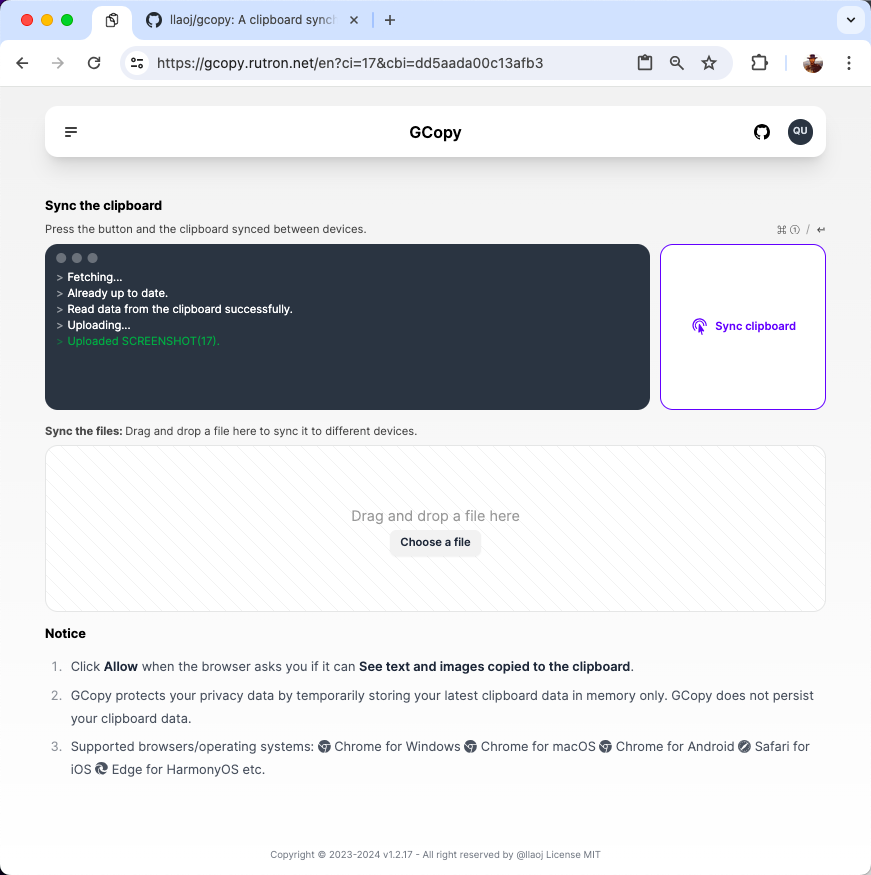
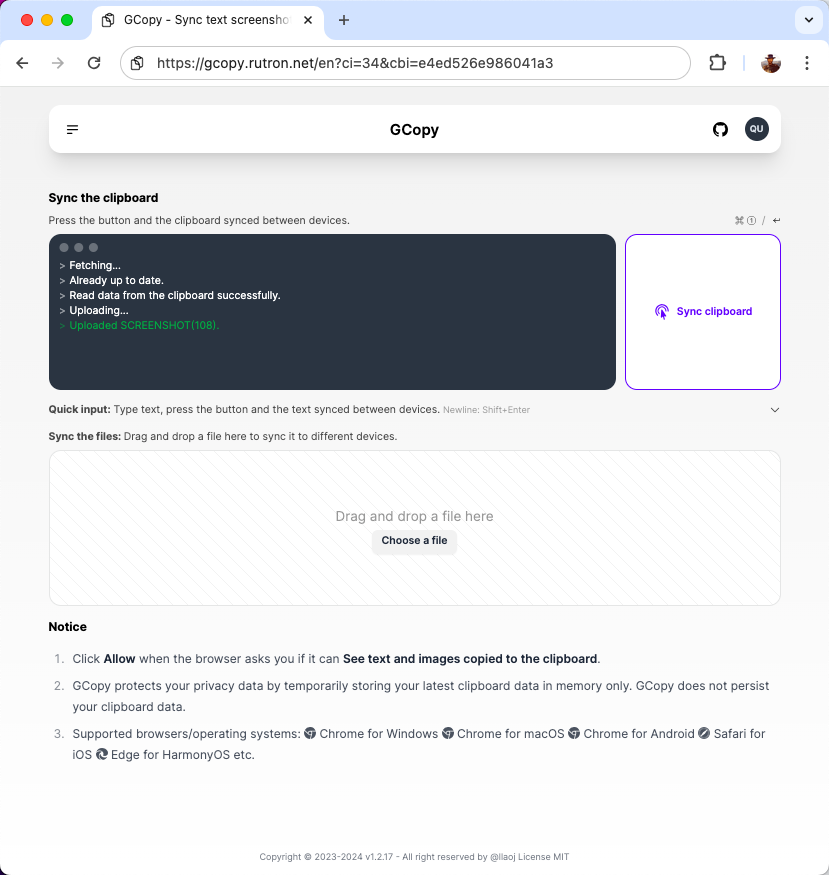
Squashed commit of the following:
commit 5776a61d2314ce1c76050a8c00c71330fb9a2ca6
Author: 老J <hmmmbiubiubiu@gmail.com>
Date:   Fri May 31 13:43:31 2024 +0800

    v1.3.0: Add quick input textarea.

commit fc9be20dfde297fa3ad2a671d215ba91d8856668
Author: 老J <hmmmbiubiubiu@gmail.com>
Date:   Fri May 31 13:39:49 2024 +0800

    Add quick input textarea.

commit af100c330b5a6d2a24dcd5fcda4adfee58acf52c
Author: 老J <hmmmbiubiubiu@gmail.com>
Date:   Fri May 31 08:18:02 2024 +0800

    Add quick input textarea.

commit dffeadf13a3f12bb713f2ced639666ba2ee29c6d
Author: 老J <hmmmbiubiubiu@gmail.com>
Date:   Thu May 30 08:24:47 2024 +0800

    Add quick input textarea.

commit 14829c9f4d8b8dec7137ec92cb872950834e5eeb
Author: 老J <hmmmbiubiubiu@gmail.com>
Date:   Wed May 29 13:38:31 2024 +0800

    Add quick input textarea.

commit d4602f738db9168616b47e0571bef2e69072e8fc
Author: 老J <hmmmbiubiubiu@gmail.com>
Date:   Tue May 28 20:10:33 2024 +0800

    Add quick input area.

diff --git a/frontend/components/sync-clipboard.tsx b/frontend/components/sync-clipboard.tsx
@@ -23,6 +23,7 @@ import {
 import { osName, browserName, isAndroid } from "react-device-detect";
 import SyncButton from "@/components/sync-button";
 import SyncShortcut from "@/components/sync-shortcut";
+import QuickInput from "@/components/quick-input";
 
 // route: /locale?ci=123&cbi=abc
 // - ci: clipboard index
@@ -37,7 +38,8 @@ export default function SyncClipboard() {
   const [status, setStatus] = useState<string>("");
   const [dragging, setDragging] = useState(false);
 
-  const inputRef = useRef<HTMLInputElement>(null);
+  const fileInputRef = useRef<HTMLInputElement>(null);
+  const textareaRef = useRef<HTMLTextAreaElement>(null);
   const locale = useLocale();
   const { isLoading, loggedIn } = useAuth();
   const router = useRouter();
@@ -232,10 +234,20 @@ export default function SyncClipboard() {
   };
 
   const pushClipboard = async () => {
-    if (!navigator.clipboard || !navigator.clipboard.read) {
-      return;
+    let blob = null;
+    if (textareaRef.current && textareaRef.current.value != "") {
+      blob = new Blob([textareaRef.current.value], { type: "text/plain" });
+      addLog(t("logs.readQuickInputSuccess"));
     }
-    let blob = await clipboardRead();
+
+    if (textareaRef.current?.value == "") {
+      if (!navigator.clipboard || !navigator.clipboard.read) {
+        return;
+      }
+      blob = await clipboardRead();
+      addLog(t("logs.readClipboardSuccess"));
+    }
+
     if (!blob) {
       addLog(t("logs.emptyClipboard"));
       return;
@@ -265,7 +277,6 @@ export default function SyncClipboard() {
       addLog(t("logs.unchanged"));
       return;
     }
-    addLog(t("logs.readSuccess"));
     addLog(t("logs.uploading"));
 
     const response = await fetch("/api/v1/clipboard", {
@@ -288,6 +299,11 @@ export default function SyncClipboard() {
       addLog(body.message, Level.Error);
       return;
     }
+
+    if (textareaRef.current && textareaRef.current.value != "") {
+      textareaRef.current.value = "";
+    }
+
     const xindex = response.headers.get("x-index");
     if (xindex == null || xindex == "0") {
       return;
@@ -421,7 +437,7 @@ export default function SyncClipboard() {
           <SyncButton syncFunc={syncFunc} />
         </div>
       </div>
-
+      <QuickInput textareaRef={textareaRef} />
       <div className="pb-4">
         <div className="pb-2 text-sm opacity-70">
           <strong>{t("syncFile.title") + ": "}</strong>
@@ -466,7 +482,7 @@ export default function SyncClipboard() {
                   if (!ensureLoggedIn()) {
                     return;
                   }
-                  inputRef.current?.click();
+                  fileInputRef.current?.click();
                 }}
               >
                 {t("syncFile.fileInputText")}
@@ -476,10 +492,10 @@ export default function SyncClipboard() {
           <input
             type="file"
             hidden
-            ref={inputRef}
+            ref={fileInputRef}
             onChange={async () => {
-              if (inputRef.current?.files) {
-                const selectedFile = inputRef.current.files[0];
+              if (fileInputRef.current?.files) {
+                const selectedFile = fileInputRef.current.files[0];
                 await uploadFileHandler(selectedFile);
               }
             }}

diff --git a/frontend/components/quick-input.tsx b/frontend/components/quick-input.tsx
@@ -1,0 +1,52 @@
+import { ChevronDownIcon, ChevronUpIcon } from "@heroicons/react/24/solid";
+import { useState, RefObject } from "react";
+import { useTranslations } from "next-intl";
+import { isDesktop } from "react-device-detect";
+
+export default function QuickInput({
+  textareaRef,
+}: {
+  textareaRef: RefObject<HTMLTextAreaElement>;
+}) {
+  const [checked, setChecked] = useState<boolean>(false);
+  const t = useTranslations("SyncClipboard");
+
+  const onChange = async () => {
+    setChecked((current) => !current);
+    if (textareaRef.current) {
+      textareaRef.current.value = "";
+      !checked && textareaRef.current.focus();
+    }
+  };
+
+  return (
+    <div className="pb-4">
+      <label>
+        <input
+          className="peer/showTextarea absolute scale-0"
+          type="checkbox"
+          onChange={onChange}
+        />
+        <div className="flex justify-between items-center text-sm select-none opacity-70 peer-checked/showTextarea:pb-2 cursor-pointer">
+          <div>
+            <span className="font-bold">{t("quickInput.title")}:</span>
+            <span>{" " + t("quickInput.subTitle")}</span>
+            {isDesktop && (
+              <span className="ml-1 text-xs opacity-50">
+                {t("quickInput.newline") + ": Shift+Enter"}
+              </span>
+            )}
+          </div>
+          <div className="ml-1 flex items-center">
+            {!checked && <ChevronDownIcon className="h-4 w-4" />}
+            {checked && <ChevronUpIcon className="h-4 w-4" />}
+          </div>
+        </div>
+        <textarea
+          ref={textareaRef}
+          className="textarea block rounded-box resize-none leading-tight w-full min-h-0 h-0  p-0 border-none peer-checked/showTextarea:border-solid peer-checked/showTextarea:textarea-bordered peer-checked/showTextarea:min-h-20 peer-checked/showTextarea:p-2 transition-all duration-400"
+        ></textarea>
+      </label>
+    </div>
+  );
+}

diff --git a/frontend/components/sync-button.tsx b/frontend/components/sync-button.tsx
@@ -1,7 +1,7 @@
 import { CursorArrowRippleIcon } from "@heroicons/react/24/solid";
 import { useTranslations } from "next-intl";
-import { useRef, useState } from "react";
-import { useShortcut } from "@/lib/use-shortcut";
+import { useRef, useState, useEffect } from "react";
+import { isDesktop, isMacOs } from "react-device-detect";
 
 export default function SyncButton({
   syncFunc,
@@ -18,10 +18,28 @@ export default function SyncButton({
     setClicked(false);
   };
 
-  useShortcut({
-    eventHandler: () => {
-      buttonRef.current?.click();
-    },
+  // shortcut
+  useEffect(() => {
+    function keyDownHandler(e: globalThis.KeyboardEvent) {
+      if (!isDesktop) {
+        return;
+      }
+      // refer: https://support.google.com/chrome/answer/157179
+      if (
+        (!e.ctrlKey &&
+          !e.metaKey &&
+          !e.altKey &&
+          !e.shiftKey &&
+          e.key === "Enter") ||
+        (isMacOs && e.metaKey && e.key == "1") ||
+        (!isMacOs && e.ctrlKey && e.key == "1")
+      ) {
+        e.preventDefault();
+        buttonRef.current?.click();
+      }
+    }
+    document.addEventListener("keydown", keyDownHandler);
+    return () => document.removeEventListener("keydown", keyDownHandler);
   });
 
   return (

diff --git a/frontend/app/[locale]/layout.tsx b/frontend/app/[locale]/layout.tsx
@@ -2,6 +2,7 @@ import { Inter } from "next/font/google";
 import "@/app/globals.css";
 import { ReactNode } from "react";
 import { getTranslations } from "next-intl/server";
+import type { Viewport } from "next";
 
 export async function generateMetadata({
   params: { locale },
@@ -14,6 +15,13 @@ export async function generateMetadata({
     description: t("description"),
   };
 }
+
+export const viewport: Viewport = {
+  width: "device-width",
+  initialScale: 1,
+  maximumScale: 1,
+  userScalable: false,
+};
 
 const inter = Inter({ subsets: ["latin"] });
 
